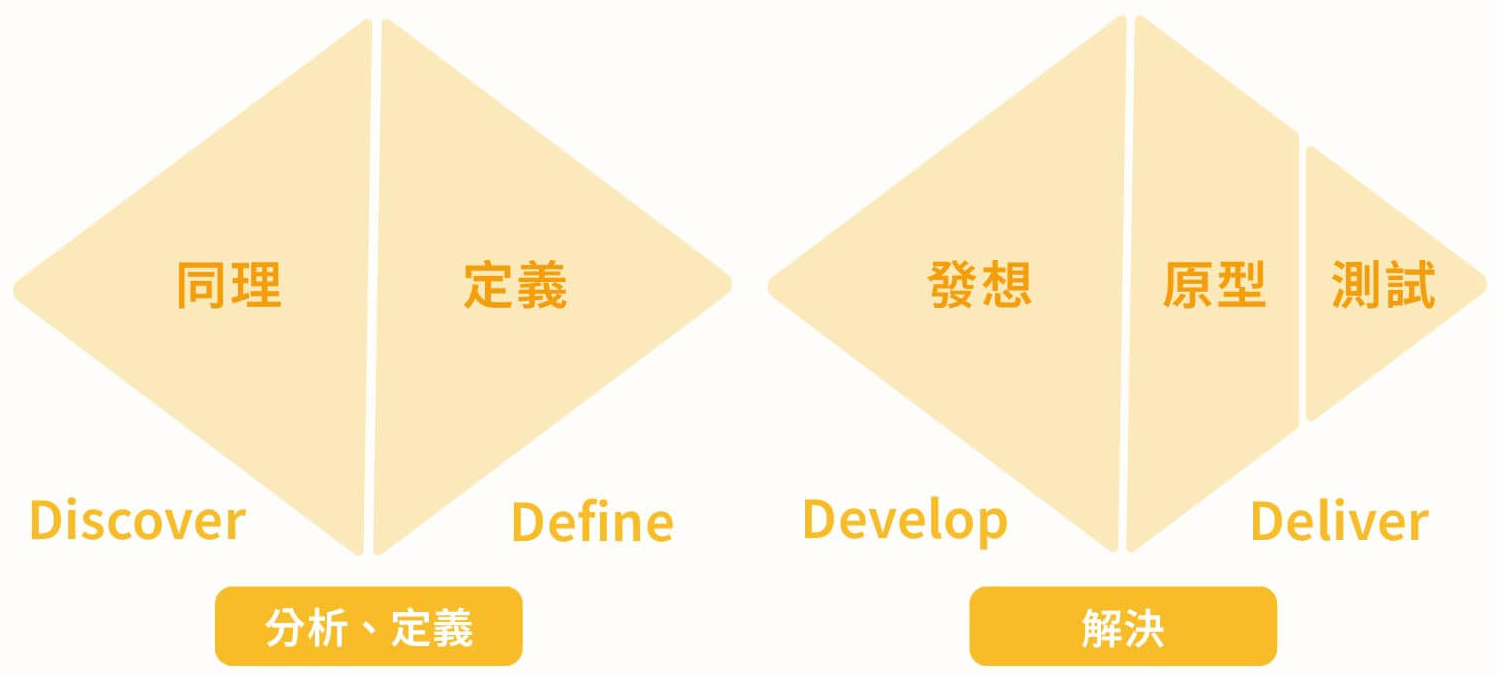
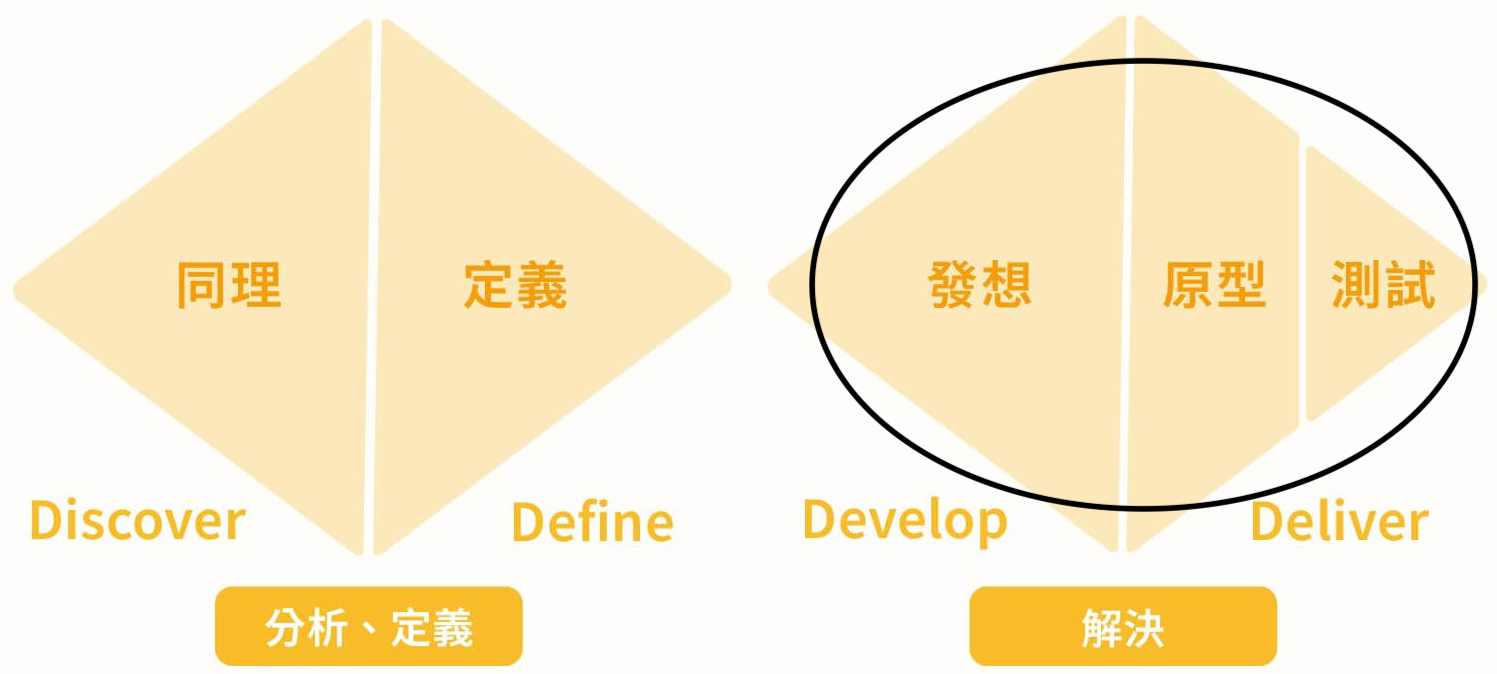
remove_antifragile_concept

diff --git a/index.html b/index.html
@@ -433,7 +433,7 @@
     <section class="slide statement-slide">
       <div class="slide-inner">
         <p class="kicker">Friction and Growth</p>
-        <p class="explain-text">在發展（Develop）與交付（Deliver）中，<br>我們需要不斷地透過<span class="keyword">同理使用者、實作試錯</span>，<br>讓想法接受現實的「摩擦」。<br><br>這是一個充滿批評與失敗的區域，<br>但也是產品真正透過壓力「演進」的起點。</p>
+        <p class="explain-text">在發想（Develop）與原型測試（Deliver）中，<br>我們需要不斷地透過<span class="keyword">同理使用者、實作試錯</span>，<br>讓想法接受現實的「摩擦」。<br><br>這是一個充滿<span class="keyword">批評</span>與<span class="keyword">失敗</span>的區域，<br>但也是產品真正透過壓力「演進」的起點。</p>
       </div>
     </section>
 
@@ -441,7 +441,7 @@
     <section class="slide statement-slide">
       <div class="slide-inner">
         <p class="kicker">Trial and Error</p>
-        <p class="explain-text">設計思考的重點是「思考」。<br><br>學生透過一次次試誤、失敗、修正，<br>甚至是批評，讓 prototype 更接近真實需求。<br><br>問題是：當我們反覆面對不完美時，<br>該如何轉化這些「負面能量」？</p>
+        <p class="explain-text">設計思考的重點就是這樣的「思考」。<br><br>學生透過一次次試誤、失敗、修正，<br>甚至是批評，讓 prototype 更接近真實需求。<br><br>問題是：當我們反覆面對不完美時，<br>該如何思考轉化這些「負面能量」？</p>
       </div>
     </section>
 
@@ -451,7 +451,7 @@
         <div>
           <p class="kicker">Evolutionary Loop</p>
           <h2><span class="keyword">演進</span>的力量</h2>
-          <p class="body-text">不只是承受攻擊，<br>而是從<br><span class="keyword">壓力、錯誤與回饋</span><br>中吸收養分，<br>讓設計在每次試用中進化。</p>
+          <p class="body-text">我們必須理解，<br>成長不只是承受攻擊、<br>不受影響，還要從<br><span class="keyword">壓力、錯誤與回饋</span><br>中吸收養分，<br>讓設計在每次試用中進化。</p>
         </div>
         <div class="diagram">
           <div class="diagram-node">試作<br>Prototype</div>
@@ -468,7 +468,7 @@
     <section class="slide">
       <div class="slide-inner">
         <p class="kicker">Blind Spot</p>
-        <p class="quote">如果大家都只稱讚、不批評，<br>產品會停留在「虛假的完美」，<br>我們將永遠看不見<br>那些致命的盲點。</p>
+        <p class="quote">如果大家都只稱讚、不批評，<br>產品會停留在「虛假的完美」，<br>我們將永遠看不見<br>那些致命的盲點。</p><br><span class="keyword">我們就是「需要」這些精準客觀的批評</span>
       </div>
     </section>
 
